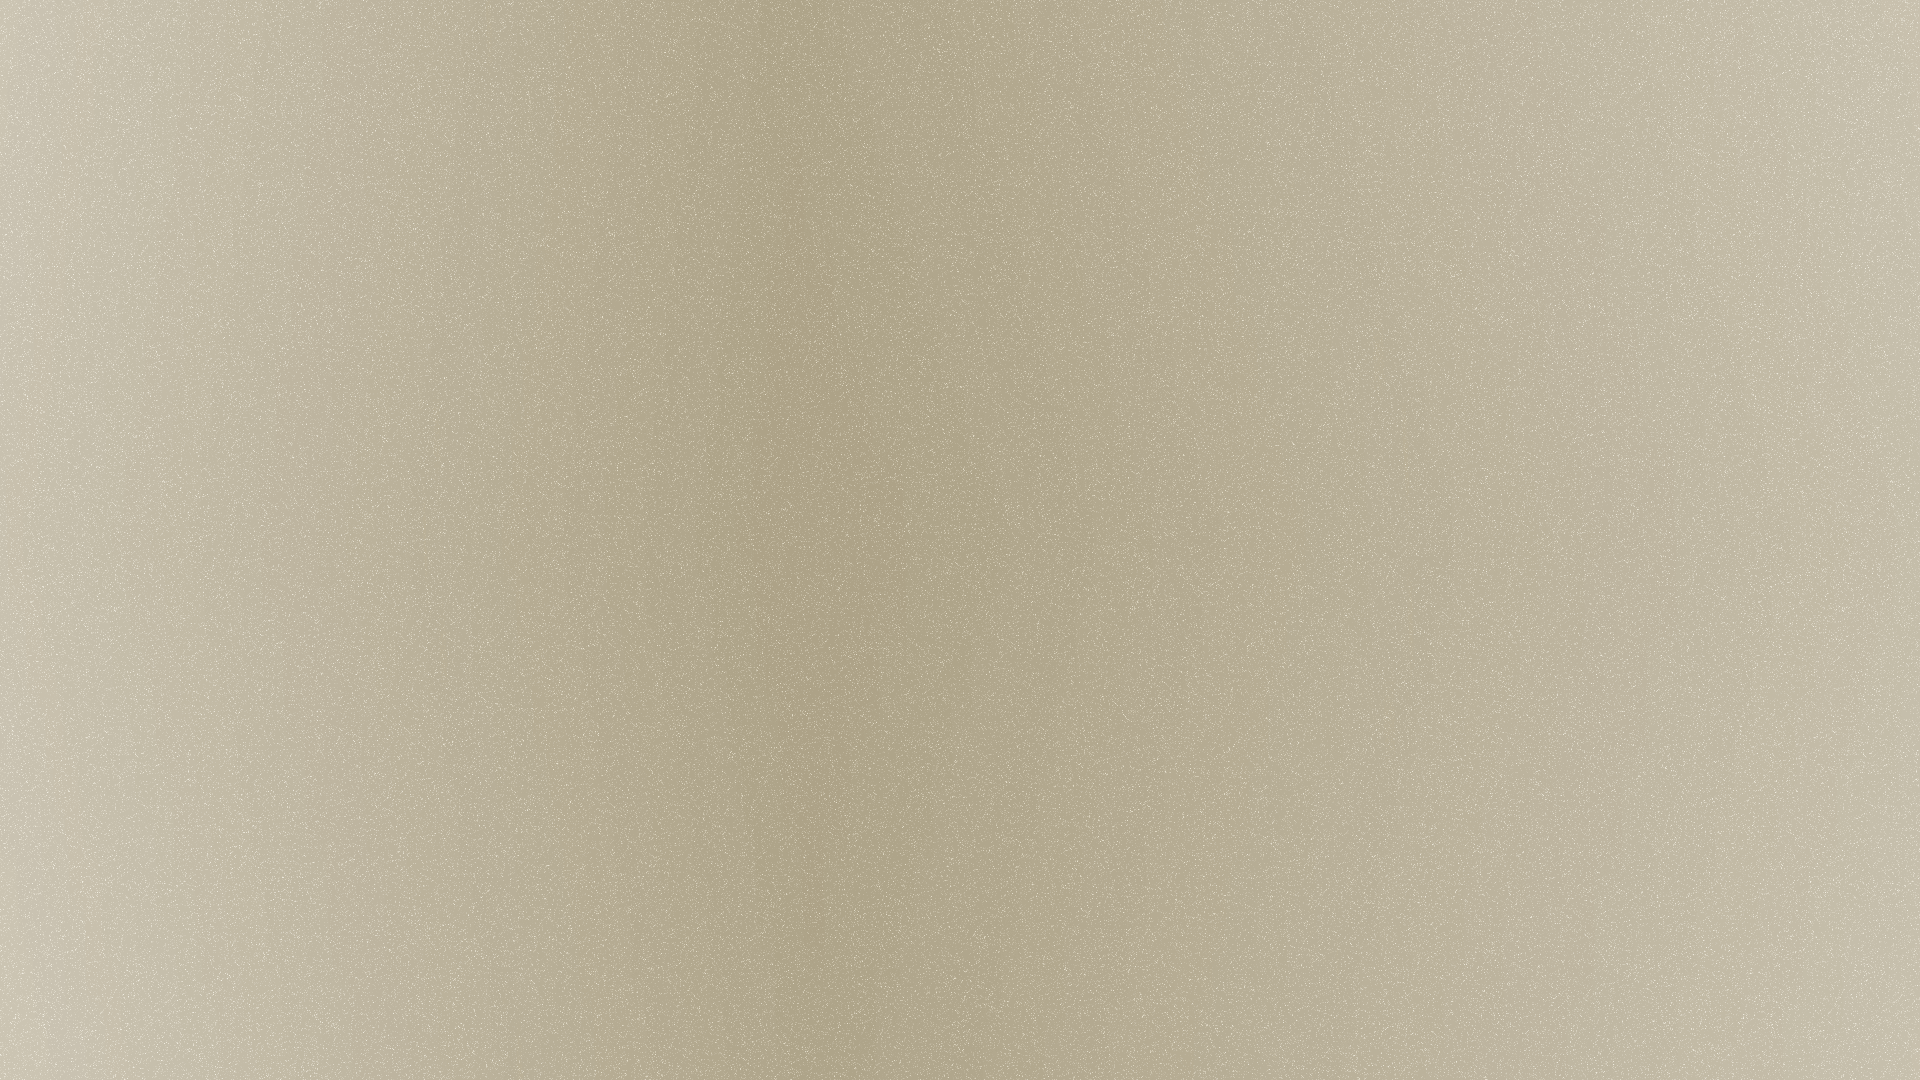
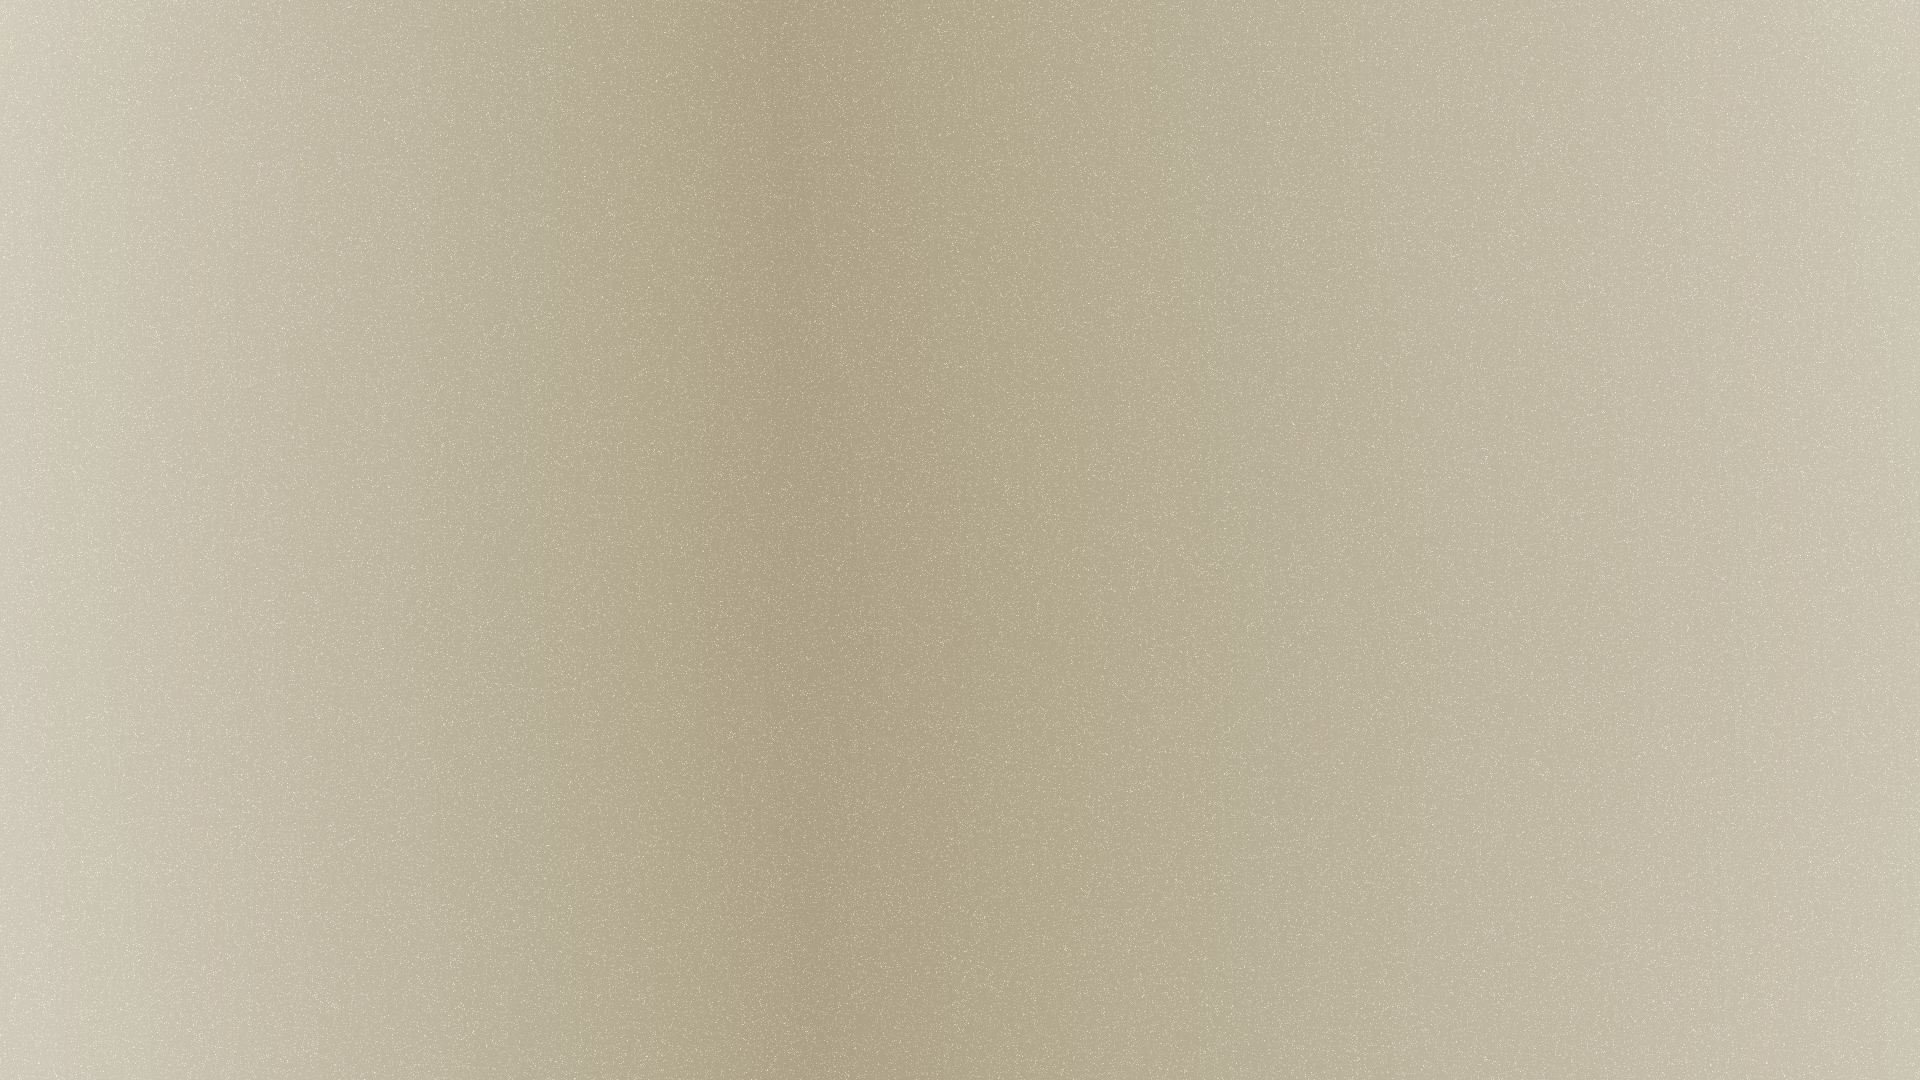
backgrounds and padding

Changed region(s): [[0.4375, 0.825, 0.4688, 0.8556], [0.4375, 0.5806, 0.4688, 0.6111]]

diff --git a/styles/about.module.css b/styles/about.module.css
@@ -4,7 +4,7 @@
   flex-direction: column;
   place-items: center;
   justify-content: center;
-  background: url(/background.png) center center / cover no-repeat;
+  background: url(/background-about.png) center center / cover no-repeat;
 }
 
 .container {

diff --git a/styles/navbar.module.css b/styles/navbar.module.css
@@ -14,7 +14,7 @@
   padding: 0 5rem;
   align-items: center;
   vertical-align: top;
-  margin-top: 3.625rem;
+  margin-top: 1.4rem;
   justify-content: space-between;
 }
 
